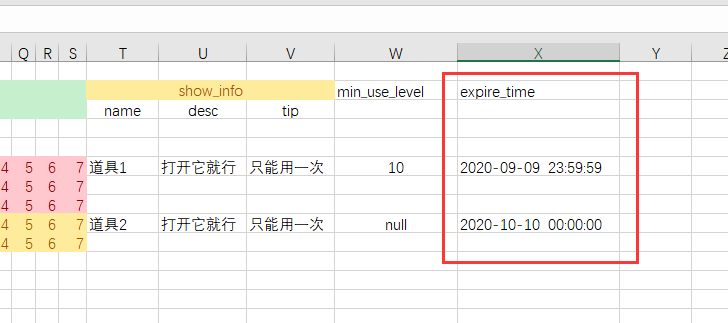
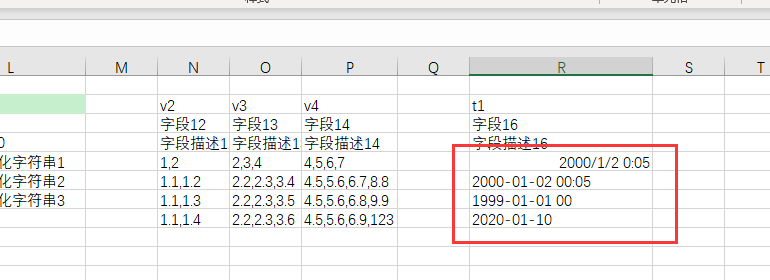
【特性】cfg datetime的在excel格式下支持excel内置的时间格式

diff --git a/src/Luban.Job.Cfg/Source/DataCreators/ExcelDataCreator.cs b/src/Luban.Job.Cfg/Source/DataCreators/ExcelDataCreator.cs
@@ -483,6 +483,10 @@ namespace Luban.Job.Cfg.DataCreators
             {
                 return null;
             }
+            if (d is System.DateTime datetime)
+            {
+                return new DDateTime(datetime);
+            }
             return DataUtil.CreateDateTime(d.ToString());
         }
     }

diff --git a/docs/data_excel.md b/docs/data_excel.md
@@ -392,11 +392,15 @@ text的key和text字段都是string类型，因此在连续单元格或者sep产
 ## datetime 类型
 
 - 时间是常用的数据类型。Luban 特地提供了支持。  
-  填写格式为 以下 4 种。
-  - yyyy-mm-dd hh:mm:ss 如 1999-08-08 01:30:29
-  - yyyy-mm-dd hh:mm 如 2000-08-07 07:40
-  - yyyy-mm-dd hh 如 2001-09-05 07
-  - yyyy-mm-dd 如 2003-04-05
+  有两种形式，一种以纯字符串的方式填写。
+  - 以纯字符串方式填写
+      填写格式为 以下 4 种。
+    - yyyy-mm-dd hh:mm:ss 如 1999-08-08 01:30:29
+    - yyyy-mm-dd hh:mm 如 2000-08-07 07:40
+    - yyyy-mm-dd hh 如 2001-09-05 07
+    - yyyy-mm-dd 如 2003-04-05
+  - 以 excel内置的时间格式填写
+    
 - 为 Item 新增一个 失效时间字段 expire_time 。  
 - [定义](images/adv/def_38.png)  
   ``` xml
@@ -405,7 +409,10 @@ text的key和text字段都是string类型，因此在连续单元格或者sep产
     <var name="expire_time" type="datetime"/>
   </bean>
   ```
-- 配置    
+- 配置  
+  图中红框中第一个时间以 excel的时间格式填写
+  剩下第2，3，4个时间以 纯字符串形式填写
+
   ![如图](images/adv/def_39.png)
 
 ## convert 常量替换
